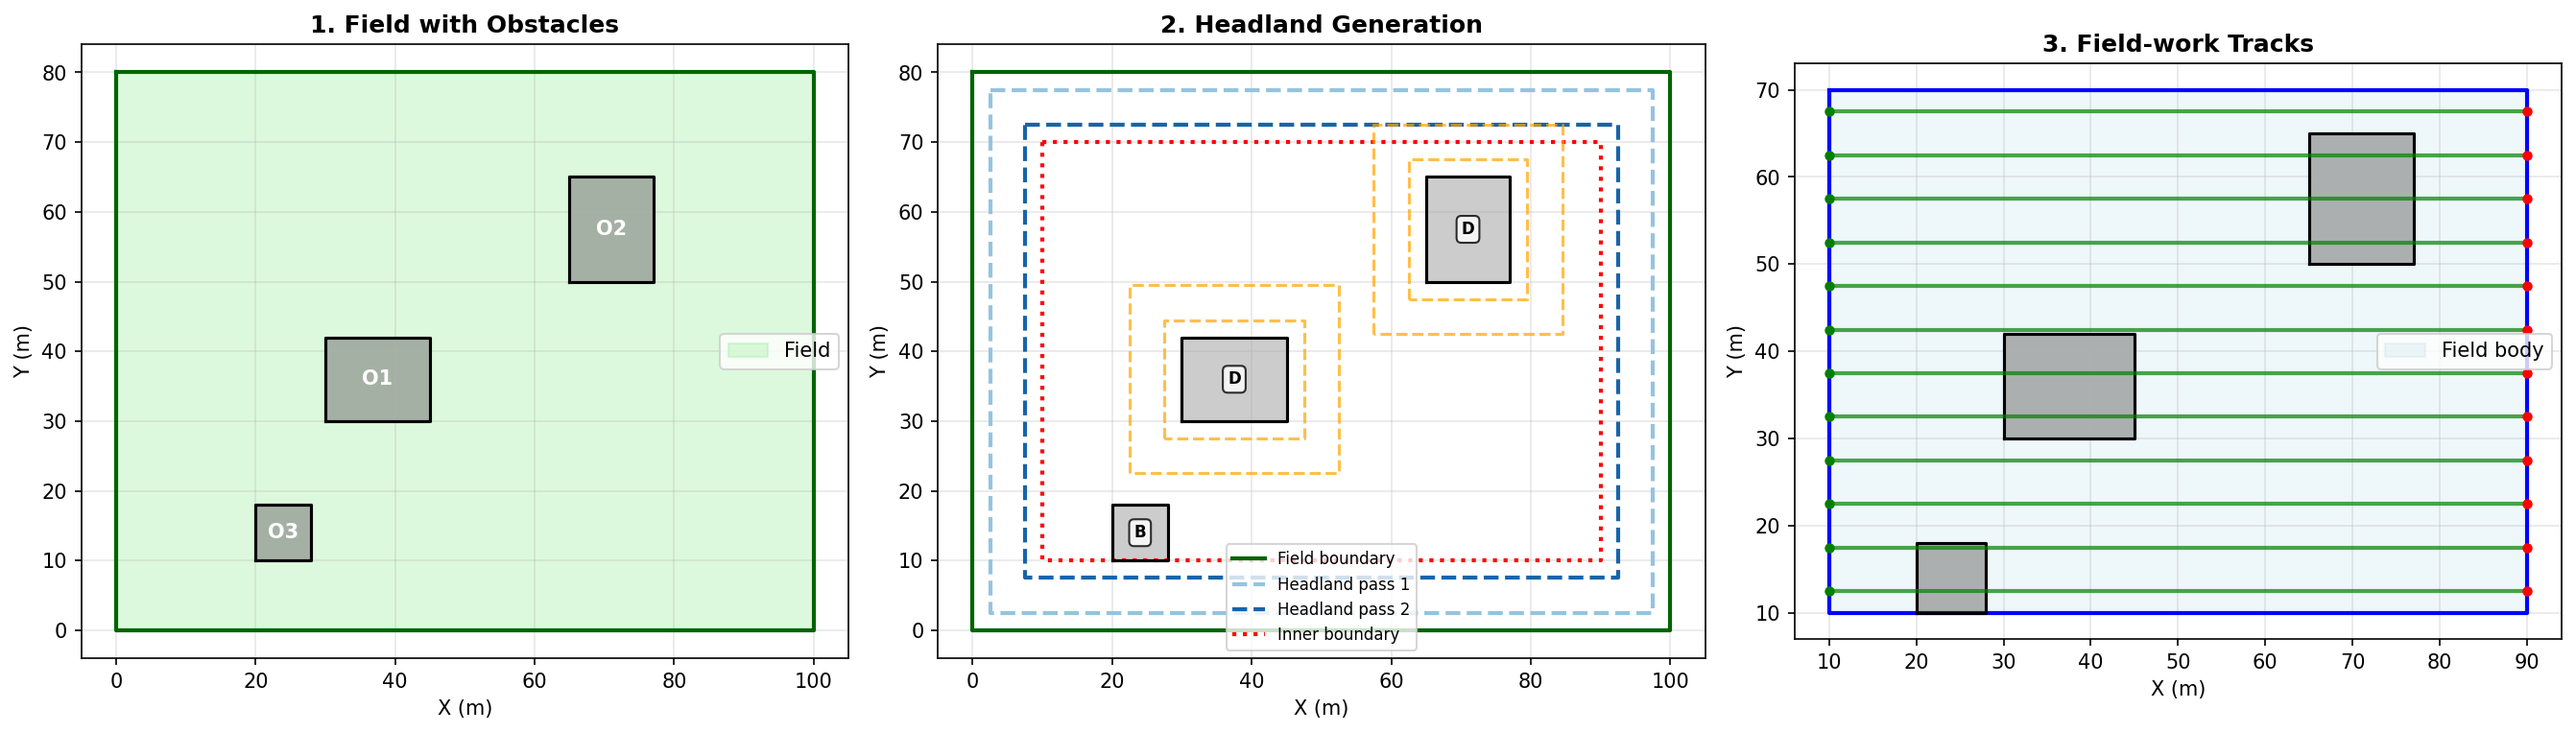
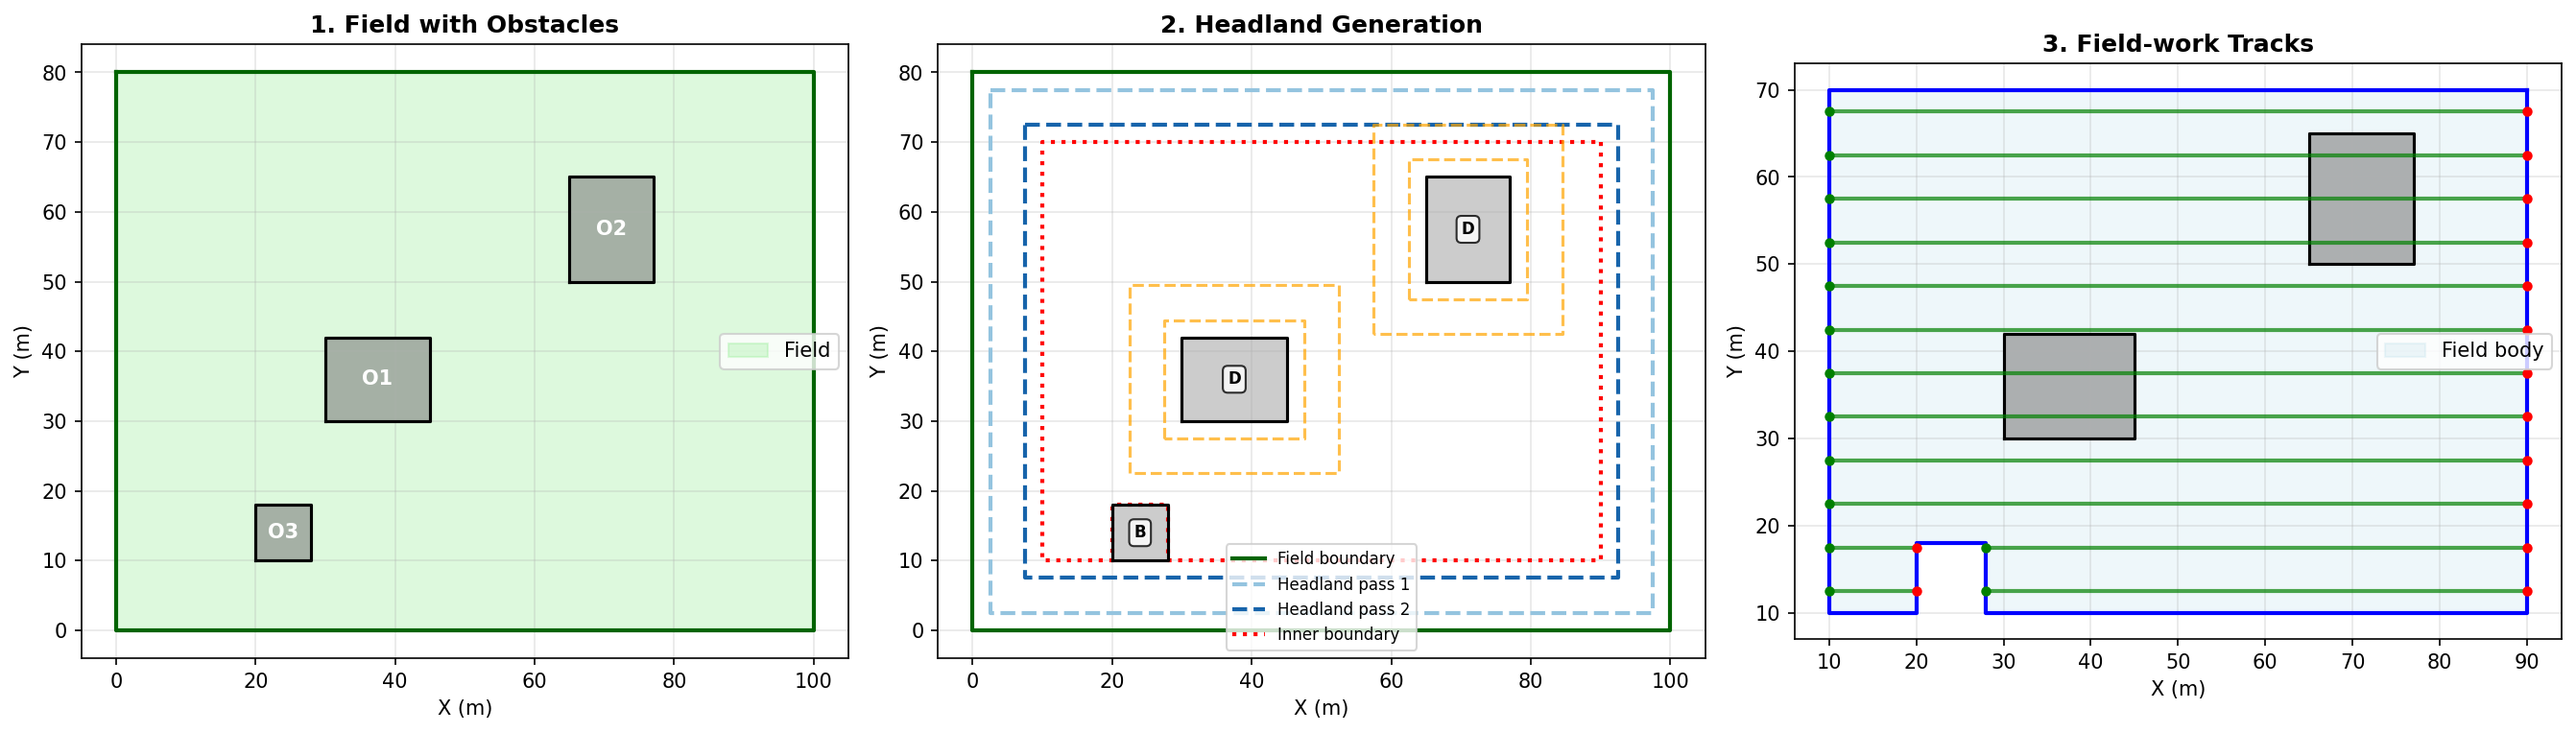
Fix error type B obstacle stage 1

Changed region(s): [[0.7422, 0.7225, 0.7731, 0.8429], [0.5566, 0.7526, 0.6185, 0.7827]]

diff --git a/examples/stage1_geometry.py b/examples/stage1_geometry.py
@@ -18,7 +18,7 @@ from src.geometry import (
     generate_obstacle_headland,
     generate_parallel_tracks,
 )
-from src.obstacles.classifier import classify_all_obstacles, get_type_d_obstacles
+from src.obstacles.classifier import classify_all_obstacles, get_type_b_obstacles, get_type_d_obstacles
 
 
 def plot_polygon(ax, polygon, **kwargs):
@@ -68,9 +68,9 @@ def visualize_stage1_pipeline():
         f"headland_passes={params.num_headland_passes}"
     )
 
-    # Generate field headland
-    print("\nGenerating field headland...")
-    field_headland = generate_field_headland(
+    # Generate field headland (preliminary, to classify obstacles)
+    print("\nGenerating preliminary field headland...")
+    preliminary_headland = generate_field_headland(
         field_boundary=field.boundary_polygon,
         operating_width=params.operating_width,
         num_passes=params.num_headland_passes,
@@ -80,7 +80,7 @@ def visualize_stage1_pipeline():
     print("Classifying obstacles...")
     classified_obstacles = classify_all_obstacles(
         obstacle_boundaries=field.obstacles,
-        field_inner_boundary=field_headland.inner_boundary,
+        field_inner_boundary=preliminary_headland.inner_boundary,
         driving_direction_degrees=params.driving_direction,
         operating_width=params.operating_width,
         threshold=params.obstacle_threshold,
@@ -89,6 +89,19 @@ def visualize_stage1_pipeline():
     print(f"Classified {len(classified_obstacles)} obstacles:")
     for obs in classified_obstacles:
         print(f"  - {obs}")
+
+    # Extract Type B obstacles
+    type_b_obstacles = get_type_b_obstacles(classified_obstacles)
+    type_b_polygons = [obs.polygon for obs in type_b_obstacles]
+
+    # Regenerate field headland with Type B obstacles incorporated
+    print(f"\nIncorporating {len(type_b_obstacles)} Type B obstacles into inner boundary...")
+    field_headland = generate_field_headland(
+        field_boundary=field.boundary_polygon,
+        operating_width=params.operating_width,
+        num_passes=params.num_headland_passes,
+        type_b_obstacles=type_b_polygons,
+    )
 
     # Generate obstacle headlands
     print("\nGenerating obstacle headlands...")
@@ -222,8 +235,8 @@ def visualize_stage1_pipeline():
     )
     plot_polygon(ax3, field_headland.inner_boundary, color="blue", linewidth=2)
 
-    # Obstacles
-    for obs in classified_obstacles:
+    # Only show Type D obstacles (Type B are incorporated into inner boundary)
+    for obs in type_d_obstacles:
         plot_filled_polygon(ax3, obs.polygon, color="gray", alpha=0.6)
         plot_polygon(ax3, obs.polygon, color="black", linewidth=1.5)
 

diff --git a/examples/stage2_decomposition.py b/examples/stage2_decomposition.py
@@ -22,7 +22,7 @@ from src.decomposition import (
     merge_blocks_by_criteria,
 )
 from src.geometry import generate_field_headland, generate_parallel_tracks
-from src.obstacles.classifier import classify_all_obstacles, get_type_d_obstacles
+from src.obstacles.classifier import classify_all_obstacles, get_type_b_obstacles, get_type_d_obstacles
 
 
 def plot_polygon(ax, polygon, **kwargs):
@@ -75,20 +75,19 @@ def visualize_stage2_pipeline():
     print(f"Field: {field}")
     print(f"Operating width: {params.operating_width}m")
 
-    # Generate field headland
-    print("\n[Stage 1] Generating headland...")
-    field_headland = generate_field_headland(
+    # Generate preliminary headland (to classify obstacles)
+    print("\n[Stage 1] Generating preliminary headland...")
+    preliminary_headland = generate_field_headland(
         field_boundary=field.boundary_polygon,
         operating_width=params.operating_width,
         num_passes=params.num_headland_passes,
     )
-    print(f"Inner boundary area: {field_headland.inner_boundary.area:.2f}m²")
 
     # Classify obstacles
     print("\n[Stage 1] Classifying obstacles...")
     classified_obstacles = classify_all_obstacles(
         obstacle_boundaries=field.obstacles,
-        field_inner_boundary=field_headland.inner_boundary,
+        field_inner_boundary=preliminary_headland.inner_boundary,
         driving_direction_degrees=params.driving_direction,
         operating_width=params.operating_width,
         threshold=params.obstacle_threshold,
@@ -98,9 +97,23 @@ def visualize_stage2_pipeline():
     for obs in classified_obstacles:
         print(f"  - {obs}")
 
-    # Get Type D obstacles
+    # Get Type B and Type D obstacles
+    type_b_obstacles = get_type_b_obstacles(classified_obstacles)
+    type_b_polygons = [obs.polygon for obs in type_b_obstacles]
     type_d_obstacles = get_type_d_obstacles(classified_obstacles)
+
+    print(f"Type B obstacles (incorporated into inner boundary): {len(type_b_obstacles)}")
     print(f"Type D obstacles requiring decomposition: {len(type_d_obstacles)}")
+
+    # Regenerate headland with Type B obstacles incorporated
+    print("\n[Stage 1] Incorporating Type B obstacles into inner boundary...")
+    field_headland = generate_field_headland(
+        field_boundary=field.boundary_polygon,
+        operating_width=params.operating_width,
+        num_passes=params.num_headland_passes,
+        type_b_obstacles=type_b_polygons,
+    )
+    print(f"Inner boundary area (after Type B removal): {field_headland.inner_boundary.area:.2f}m²")
 
     # ========== STAGE 2: DECOMPOSITION ==========
     print("\n" + "=" * 80)

diff --git a/examples/stage3_optimization.py b/examples/stage3_optimization.py
@@ -15,7 +15,7 @@ import numpy as np
 from src.data import FieldParameters, create_field_with_rectangular_obstacles
 from src.decomposition import boustrophedon_decomposition, merge_blocks_by_criteria
 from src.geometry import generate_field_headland, generate_parallel_tracks
-from src.obstacles.classifier import classify_all_obstacles, get_type_d_obstacles
+from src.obstacles.classifier import classify_all_obstacles, get_type_b_obstacles, get_type_d_obstacles
 from src.optimization import (
     ACOParameters,
     ACOSolver,
@@ -237,8 +237,8 @@ def run_demo():
         obstacle_threshold=5.0,
     )
 
-    # Generate headland
-    field_headland = generate_field_headland(
+    # Generate preliminary headland (to classify obstacles)
+    preliminary_headland = generate_field_headland(
         field_boundary=field.boundary_polygon,
         operating_width=params.operating_width,
         num_passes=params.num_headland_passes,
@@ -247,16 +247,28 @@ def run_demo():
     # Classify obstacles
     classified_obstacles = classify_all_obstacles(
         obstacle_boundaries=field.obstacles,
-        field_inner_boundary=field_headland.inner_boundary,
+        field_inner_boundary=preliminary_headland.inner_boundary,
         driving_direction_degrees=params.driving_direction,
         operating_width=params.operating_width,
         threshold=params.obstacle_threshold,
     )
 
+    # Extract Type B and Type D obstacles
+    type_b_obstacles = get_type_b_obstacles(classified_obstacles)
+    type_b_polygons = [obs.polygon for obs in type_b_obstacles]
     type_d_obstacles = get_type_d_obstacles(classified_obstacles)
     obstacle_polygons = [obs.polygon for obs in type_d_obstacles]
 
-    print(f"  ✓ Field created with {len(type_d_obstacles)} Type D obstacles")
+    # Regenerate headland with Type B obstacles incorporated
+    field_headland = generate_field_headland(
+        field_boundary=field.boundary_polygon,
+        operating_width=params.operating_width,
+        num_passes=params.num_headland_passes,
+        type_b_obstacles=type_b_polygons,
+    )
+
+    print(f"  ✓ Field created with {len(type_b_obstacles)} Type B obstacles (incorporated)")
+    print(f"  ✓ {len(type_d_obstacles)} Type D obstacles for decomposition")
 
     # ====================
     # STAGE 2: Decomposition

diff --git a/src/geometry/headland.py b/src/geometry/headland.py
@@ -7,7 +7,7 @@ Implements Stage 1 headland generation from Zhou et al. 2014.
 from dataclasses import dataclass
 from typing import List, Optional, Tuple
 
-from shapely.geometry import Polygon
+from shapely.geometry import MultiPolygon, Polygon
 
 from .polygon import offset_polygon
 
@@ -29,7 +29,10 @@ class HeadlandResult:
 
 
 def generate_field_headland(
-    field_boundary: Polygon, operating_width: float, num_passes: int
+    field_boundary: Polygon,
+    operating_width: float,
+    num_passes: int,
+    type_b_obstacles: Optional[List[Polygon]] = None,
 ) -> Optional[HeadlandResult]:
     """
     Generate headland area for the main field.
@@ -38,11 +41,13 @@ def generate_field_headland(
     - Distance from field boundary to first pass: w/2
     - Distance between subsequent passes: w
     - Inner boundary: w/2 from last pass
+    - Type B obstacles are incorporated into the inner boundary (removed from field body)
 
     Args:
         field_boundary: Field boundary polygon
         operating_width: Operating width of implement (w)
         num_passes: Number of headland passes (h)
+        type_b_obstacles: List of Type B obstacle polygons to incorporate into inner boundary
 
     Returns:
         HeadlandResult with passes and inner boundary, or None if generation fails
@@ -83,6 +88,21 @@ def generate_field_headland(
         print("Warning: Failed to generate inner boundary")
         # Use last pass as inner boundary
         inner_boundary = current_boundary
+
+    # Incorporate Type B obstacles into inner boundary (remove them from field body)
+    # According to paper: "Type B obstacles are incorporated into the inner boundary of the field"
+    if type_b_obstacles:
+        for type_b_obs in type_b_obstacles:
+            try:
+                # Subtract Type B obstacle from inner boundary
+                inner_boundary = inner_boundary.difference(type_b_obs)
+
+                # Handle MultiPolygon result (take largest piece)
+                if isinstance(inner_boundary, MultiPolygon):
+                    inner_boundary = max(inner_boundary.geoms, key=lambda p: p.area)
+
+            except Exception as e:
+                print(f"Warning: Failed to incorporate Type B obstacle into inner boundary: {e}")
 
     total_width = num_passes * w
 

diff --git a/src/obstacles/classifier.py b/src/obstacles/classifier.py
@@ -275,6 +275,19 @@ def classify_all_obstacles(
     return classified_obstacles
 
 
+def get_type_b_obstacles(obstacles: List[Obstacle]) -> List[Obstacle]:
+    """
+    Filter only Type B obstacles (those intersecting with inner boundary).
+
+    Args:
+        obstacles: List of classified obstacles
+
+    Returns:
+        List containing only Type B obstacles
+    """
+    return [obs for obs in obstacles if obs.obstacle_type == ObstacleType.B]
+
+
 def get_type_d_obstacles(obstacles: List[Obstacle]) -> List[Obstacle]:
     """
     Filter only Type D obstacles (those requiring field decomposition).
